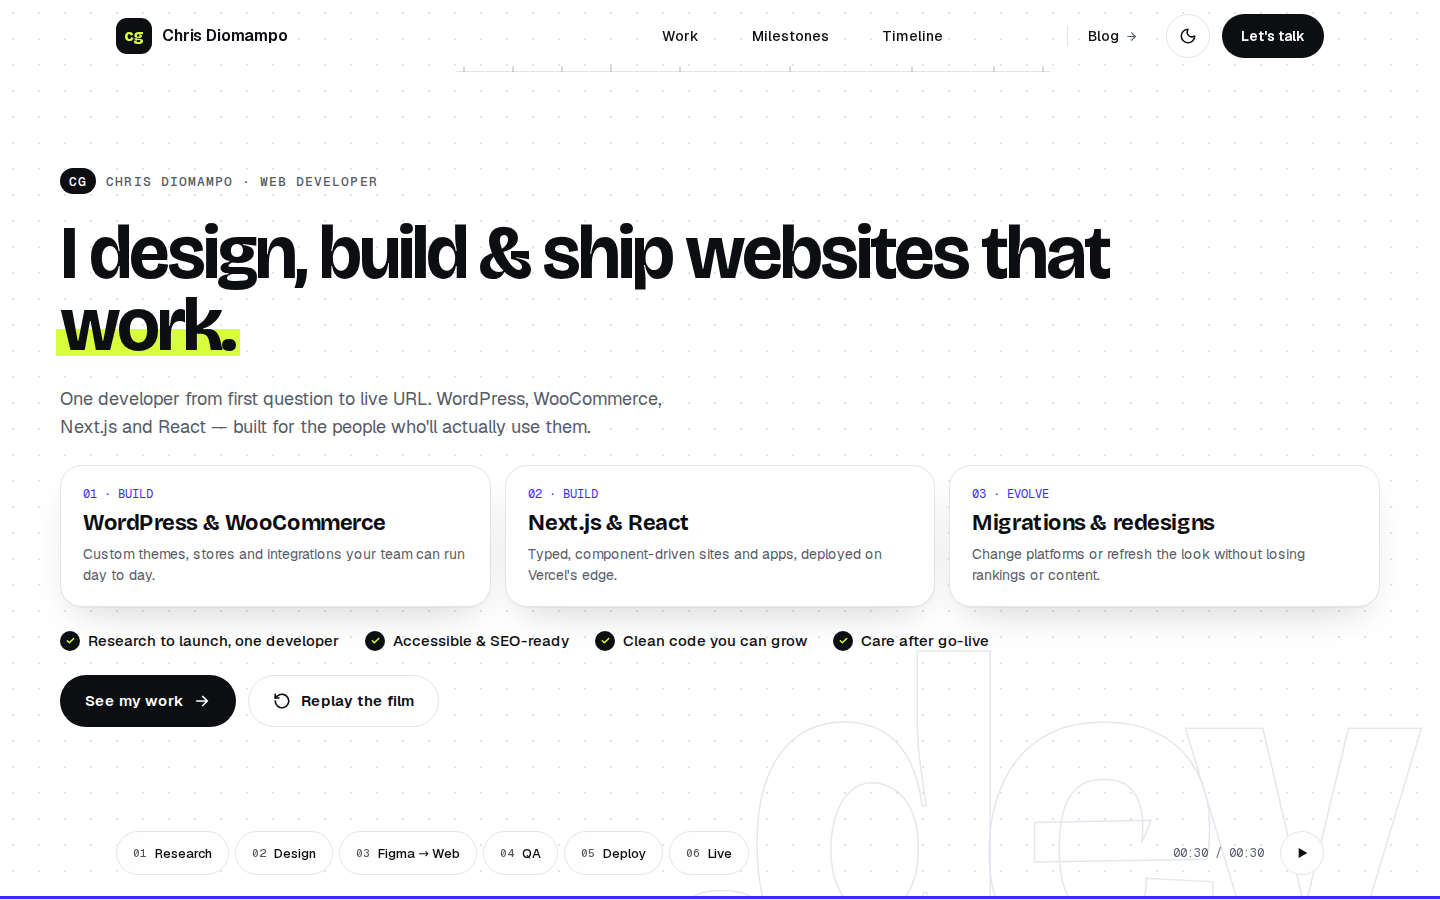
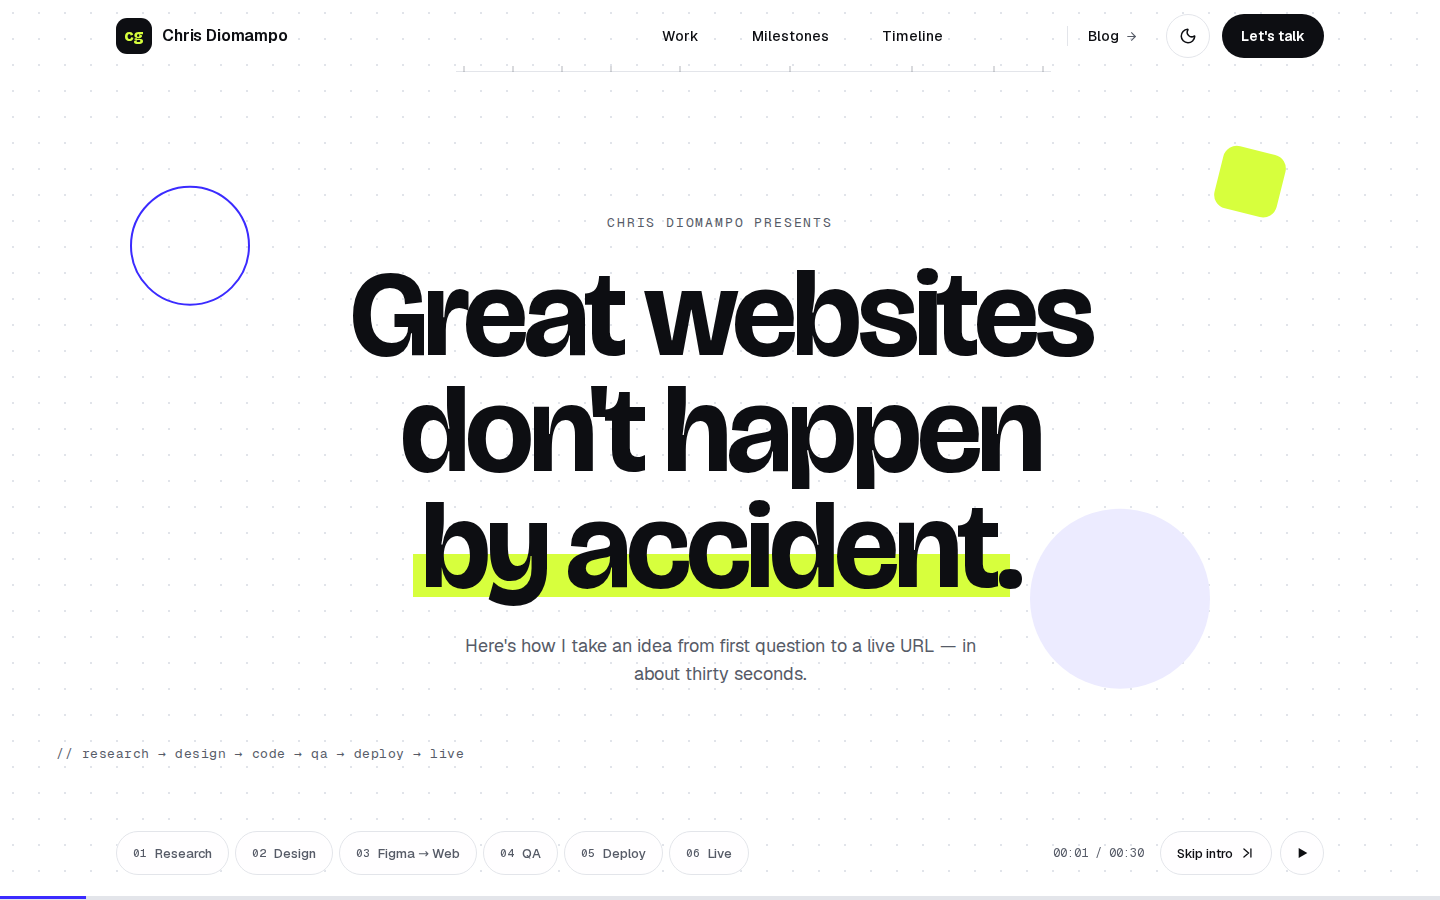
docs: use the hero film intro in the README screenshots

diff --git a/README.md b/README.md
@@ -3,9 +3,9 @@
 Portfolio and dev blog for Chris Diomampo, a senior full-stack developer working in Next.js and WordPress. It is a Next.js app with a custom admin, and the home page opens on a film built in Remotion.
 
 <p align="center">
-  <img src="docs/screenshots/home-desktop.png" alt="Home page hero at desktop width: the headline 'I design, build &amp; ship websites that work', three service cards and a See my work button" width="72%">
+  <img src="docs/screenshots/home-desktop.png" alt="Home page at desktop width, paused on the hero film's intro: the headline 'Great websites don't happen by accident' with the last words highlighted in lime" width="72%">
   &nbsp;
-  <img src="docs/screenshots/home-mobile.png" alt="Home page hero at phone width: the same headline with stacked service cards and a compact header" width="20.8%">
+  <img src="docs/screenshots/home-mobile.png" alt="Home page at phone width, paused on the mobile cut of the same intro, with a compact header" width="20.8%">
 </p>
 
 ## Features
